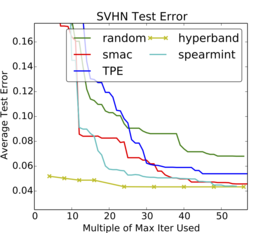
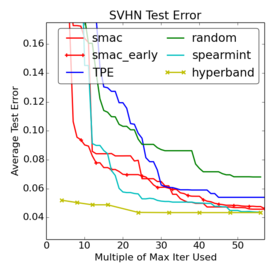
updated hyperband figures

Changed region(s): [[0.0, 0.03, 0.9891, 1.0]]

diff --git a/_posts/2016-06-16-hyperband.md b/_posts/2016-06-16-hyperband.md
@@ -33,7 +33,7 @@ Numbers (SVHN).  Both data sets contain 32 × 32 RGB images. Each dataset is
 split into a training, validation, and test set: (1) CIFAR-10 has 40,000, 10,000, and 10,000 instances;
 (2) SVHN has close to 600,000, 6,000, and 26,000 instances.
 
-For the experts out there, the methods were all attempting to tune the basic [cuda-convnet model](https://code.google.com/p/cuda-convnet/), searching for the optimal learning rate, learning rate decay, l2 regularization parameters on different layers, and parameters of the response normalizations.  For both datasets, the basic unit of time, $T$, was 10,000 examples. For CIFAR-10 this was one-fourth of an epoch, and $M$ was 300, equivalent to 75 epochs over the 40,000 example training set. For SVHN, $T$ corresponded to one-sixtieth of an epoch and $M$ was set to 600, equivalent to 10 epochs over the 600,000 example training set. The full details are described in the paper. The plots below compare the performance of the Hyperband algorithm to a variety of other hyperparameter tuning algorithms
+For the experts out there, the methods were all attempting to tune the basic [cuda-convnet model](https://code.google.com/p/cuda-convnet/), searching for the optimal learning rate, learning rate decay, l2 regularization parameters on different layers, and parameters of the response normalizations.  For both datasets, the basic unit of time, $T$, was 10,000 examples. For CIFAR-10 this was one-fourth of an epoch, and $M$ was 300, equivalent to 75 epochs over the 40,000 example training set. For SVHN, $T$ corresponded to one-sixtieth of an epoch and $M$ was set to 600, equivalent to 10 epochs over the 600,000 example training set. The full details of these experiments are described in the paper. The plots below compare the performance of the Hyperband algorithm to a variety of other hyperparameter tuning algorithms
 
 {: .center}
 ![Comparison of methods on CIFAR-10](/assets/hyperband/cifar10-compare.png)
